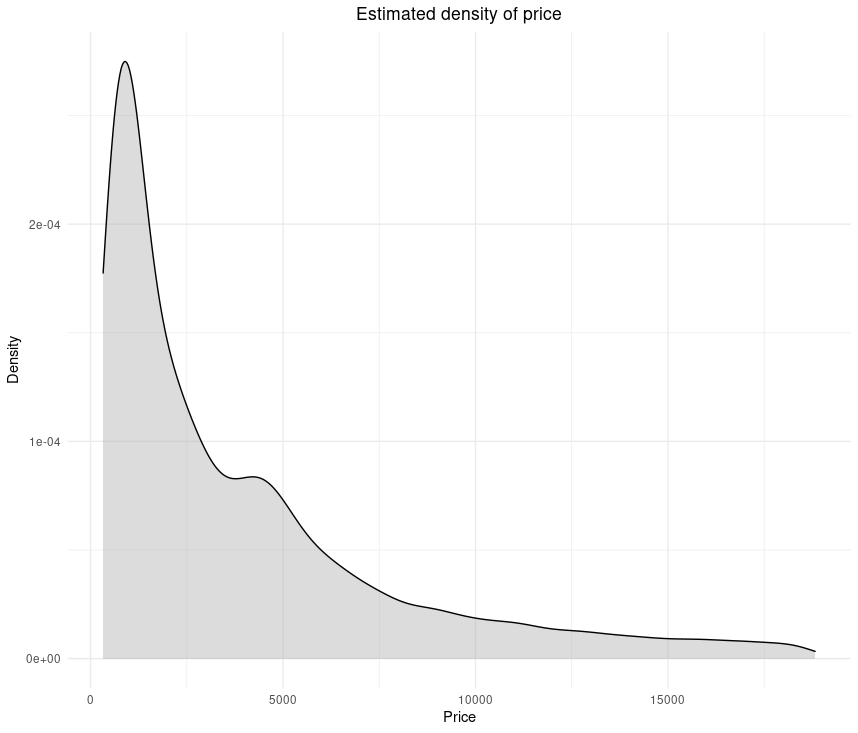
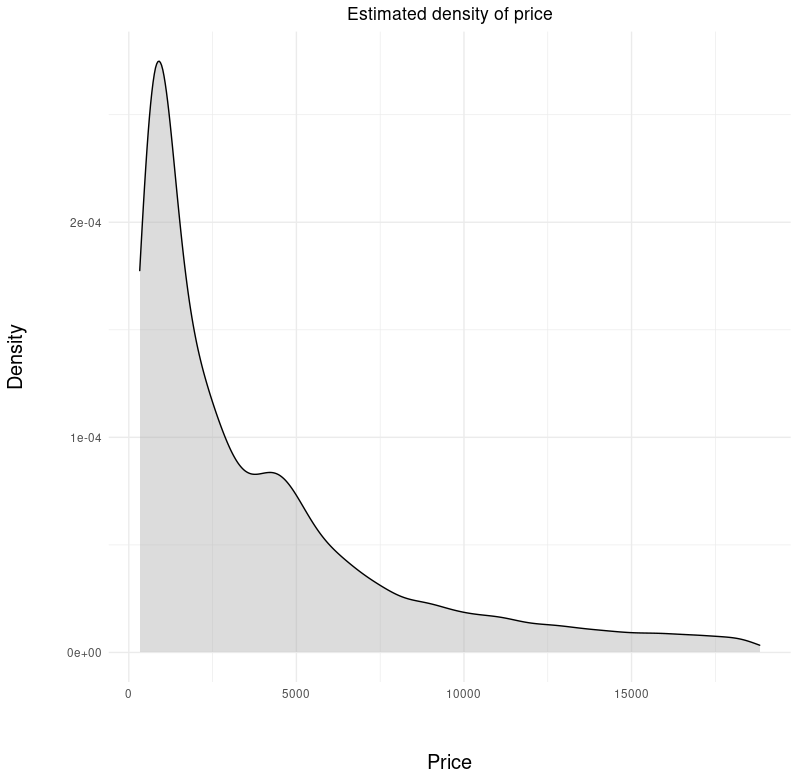
finalized visualizing ammounts

diff --git a/slides/chapter5_03.md b/slides/chapter5_03.md
@@ -14,12 +14,14 @@ ggplot(data=diamonds, aes(x=price)) +
     xlab("Price")
 ```
 
-<div style="text-align:center"><img src="hist1.png" alt=" " width="30%"></div>
+---
+
+<div style="text-align:center"><img src="hist1.png" alt=" " width="50%"></div>
 
 
 ---
 
-We add a title and consider a simpler theme.
+We add a title and consider a simpler theme. We alos increase distance and size of axis labels.
 
 ```R
 ggplot(data=diamonds, aes(x=price)) +
@@ -27,10 +29,56 @@ ggplot(data=diamonds, aes(x=price)) +
   ylab("Count") +
   geom_histogram() +
   theme_minimal() +
-  ggtitle("Histogram of price")
+  ggtitle("Histogram of price") +
+  theme(axis.title.y = element_text(margin = margin(t = 0, r = 30, b = 0, l = 0), size = 15),
+        axis.title.x = element_text(margin = margin(t = 40, r = 0, b = 0, l = 0), size = 15)
+        )
 ```
 
-<div style="text-align:center"><img src="hist2.png" alt=" " width="30%"></div>
+---
+
+<div style="text-align:center"><img src="hist2.png" alt=" " width="50%"></div>
+
+
+---
+
+```R
+ggplot(data=diamonds, aes(x=price)) +
+  xlab("Price")+
+  ylab("Count") +
+  geom_histogram(bins = 200) +
+  theme_minimal() +
+  ggtitle("Histogram of price") +
+  theme(axis.title.y = element_text(margin = margin(t = 0, r = 30, b = 0, l = 0), size = 15),
+        axis.title.x = element_text(margin = margin(t = 40, r = 0, b = 0, l = 0), size = 15)
+        )
+```
+
+
+---
+
+<div style="text-align:center"><img src="histbin200.png" alt=" " width="50%"></div>
+
+---
+
+```R
+ggplot(data=diamonds, aes(x=price)) +
+  xlab("Price")+
+  ylab("Count") +
+  geom_histogram(bins = 5) +
+  theme_minimal() +
+  ggtitle("Histogram of price") +
+  theme(axis.title.y = element_text(margin = margin(t = 0, r = 30, b = 0, l = 0), size = 15),
+        axis.title.x = element_text(margin = margin(t = 40, r = 0, b = 0, l = 0), size = 15)
+        )
+        
+```
+
+
+---
+
+<div style="text-align:center"><img src="histbin5.png" alt=" " width="50%"></div>
+
 
 
 ---
@@ -42,13 +90,14 @@ ggplot(data=diamonds, aes(x=price)) +
   geom_density()
 ```
 
+---
 
-<div style="text-align:center"><img src="dens1.png" alt=" " width="30%"></div>
+<div style="text-align:center"><img src="dens1.png" alt=" " width="55%"></div>
 
 
 ---
 
-We change the theme, add a centered title and specify a color with some transparency value.
+We change the theme, add a centered title and specify a color with some transparency value. We also increase distance and size of axis labels.
 
 ```R
 ggplot(data=diamonds, aes(x=price)) +
@@ -57,15 +106,62 @@ ggplot(data=diamonds, aes(x=price)) +
   geom_density(adjust=1.5, alpha=.4, fill = "darkgrey") +
   theme_minimal() +
   ggtitle("Estimated density of price")  + 
-  theme(plot.title = element_text(hjust = 0.5))
+  theme(plot.title = element_text(hjust = 0.5)) +
+  theme(axis.title.y = element_text(margin = margin(t = 0, r = 30, b = 0, l = 0), size = 15),
+        axis.title.x = element_text(margin = margin(t = 40, r = 0, b = 0, l = 0), size = 15)
+        )
 ```
 
 ---
 
-<div style="text-align:center"><img src="dens2.png" alt=" " width="35%"></div>
+<div style="text-align:center"><img src="dens2.png" alt=" " width="55%"></div>
+
+---
+
+We can consider varying the bandwidth of the kernel estimator in the KDE plot.
+
+```R
+ggplot(data=diamonds, aes(x=price)) +
+  xlab("Price")+
+  ylab("Density") +
+  geom_density(adjust=.1, alpha=.4, fill = "darkgrey") +
+  theme_minimal() +
+  ggtitle("Estimated density of price")  + 
+  theme(plot.title = element_text(hjust = 0.5)) +
+  theme(axis.title.y = element_text(margin = margin(t = 0, r = 30, b = 0, l = 0), size = 15),
+        axis.title.x = element_text(margin = margin(t = 40, r = 0, b = 0, l = 0), size = 15)
+        )
+```
 
 
 
+---
+
+<div style="text-align:center"><img src="largekde.png" alt=" " width="55%"></div>
+
+---
+
+Similarly
+
+
+```R
+ggplot(data=diamonds, aes(x=price)) +
+  xlab("Price")+
+  ylab("Density") +
+  geom_density(adjust=20, alpha=.4, fill = "darkgrey") +
+  theme_minimal() +
+  ggtitle("Estimated density of price")  + 
+  theme(plot.title = element_text(hjust = 0.5)) +
+  theme(axis.title.y = element_text(margin = margin(t = 0, r = 30, b = 0, l = 0), size = 15),
+        axis.title.x = element_text(margin = margin(t = 40, r = 0, b = 0, l = 0), size = 15)
+        )
+```
+
+
+
+---
+
+<div style="text-align:center"><img src="smallkde.png" alt=" " width="55%"></div>
 
 
 
